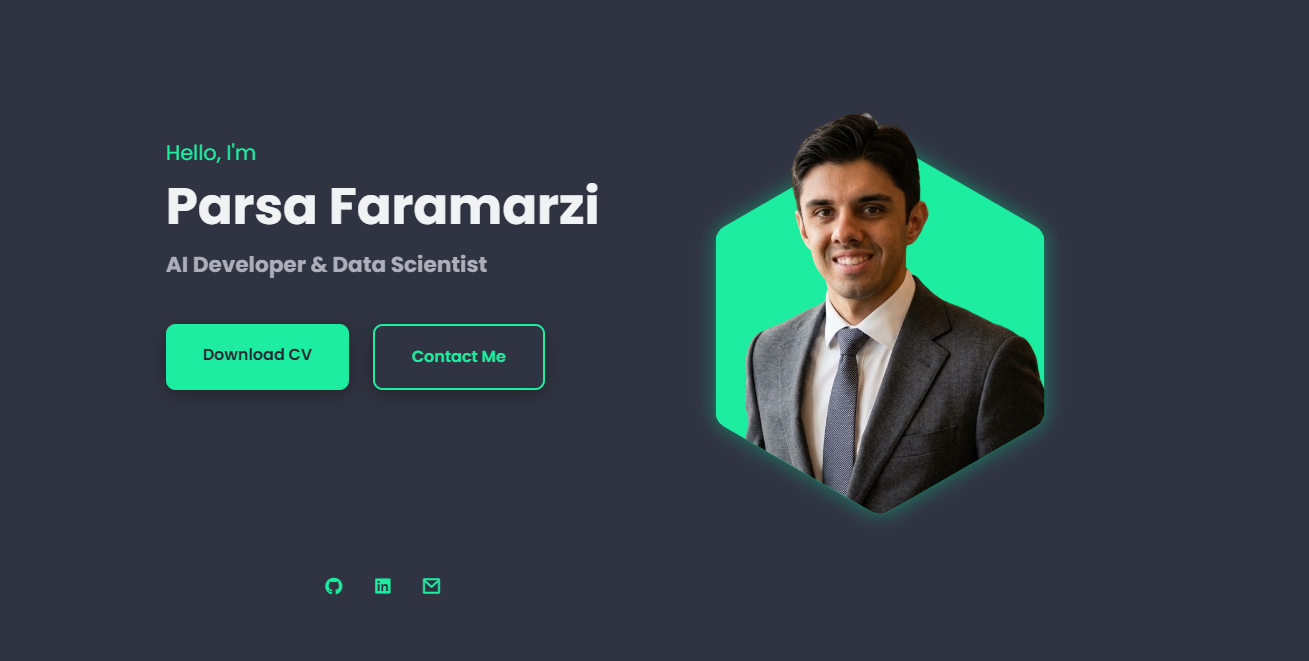
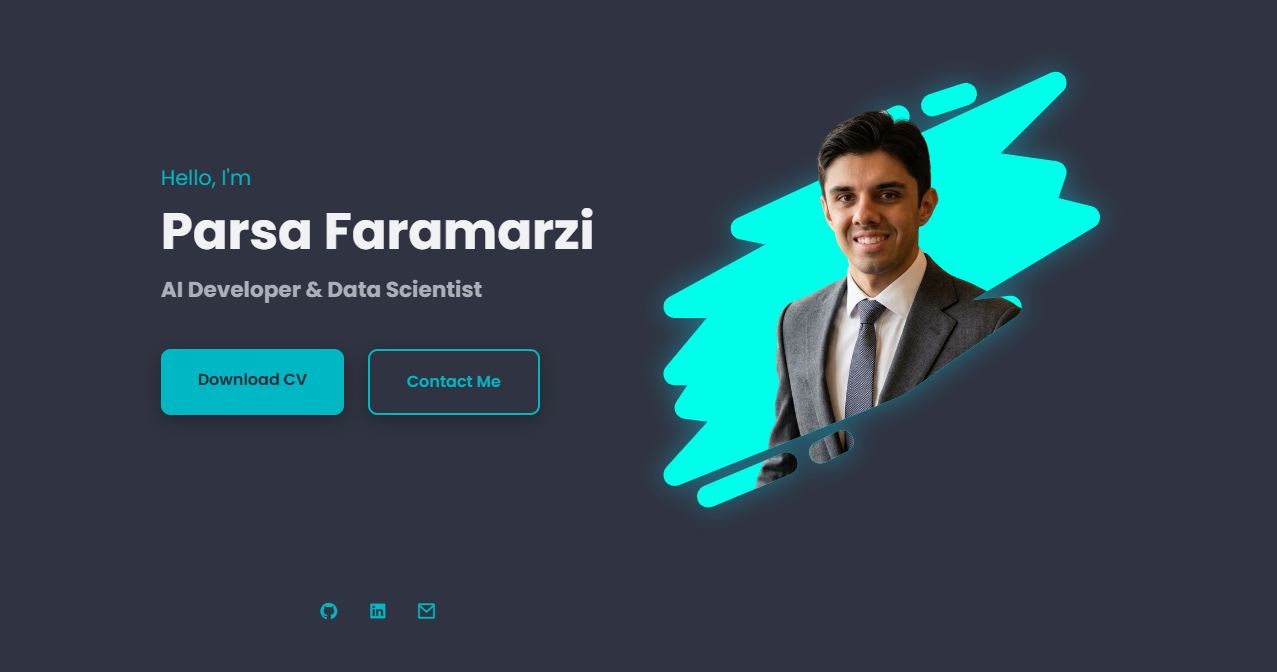
version 1.7

diff --git a/index.html b/index.html
@@ -85,37 +85,18 @@
 
           <div class="home__handle">
             <svg
-              xml:space="preserve"
-              style="max-height: 500px"
-              viewBox="51.2 89.60000000000001 405.76 364.79999999999995"
-              y="0px"
-              x="0px"
+              viewBox="1.756756756756757 2.6899999999999995 91.8918918918919 91.80000000000001"
               version="1.1"
-              xmlns:xlink="http://www.w3.org/1999/xlink"
               xmlns="http://www.w3.org/2000/svg"
-              width="405.76"
-              height="364.79999999999995"
+              style="max-height: 500px"
+              width="91.8918918918919"
+              height="91.80000000000001"
               class="home__svg"
             >
               <path
-                d="M437.9,320.31l-73.79-137.54c-4.36-8.12-12.81-13.18-22.03-13.18H169.92c-9.22,0-17.67,5.06-22.03,13.19L74.1,320.31  c-2.52,4.7-2.39,10.23,0.35,14.8c2.73,4.57,7.54,7.3,12.87,7.3h337.36c5.33,0,10.14-2.73,12.87-7.3  C440.29,330.54,440.42,325.01,437.9,320.31z"
+                fill-rule="evenodd"
+                d="m82.746 11.895-11.656 11.637 10.453 1.4922c0.60938 0.085937 1.1523 0.44141 1.4766 0.96875 0.32422 0.52344 0.39844 1.1641 0.20312 1.7539l-1.3711 4.1133 6.1523 1.5391c0.81641 0.20703 1.4297 0.88281 1.5547 1.7148 0.12109 0.83203-0.26562 1.6602-0.98828 2.0938l-22.789 13.672 6.875-0.85938c0.95312-0.12109 1.8594 0.42578 2.2031 1.3164 0.34375 0.89453 0.035156 1.9062-0.75 2.457l-20.832 14.582c-0.12891 0.09375-0.26953 0.16406-0.42188 0.22656l-41.668 16.668c-0.89844 0.35938-1.9297 0.046875-2.4844-0.74609-0.55078-0.79688-0.48047-1.8711 0.17188-2.5898l7.6914-8.4844-4.3281-0.54688c-0.71484-0.089844-1.332-0.54688-1.6328-1.2031s-0.23828-1.4219 0.15625-2.0195l2.0078-3.0117h-2.3555c-0.80859 0-1.543-0.46484-1.8867-1.1992s-0.23047-1.5938 0.28906-2.2188l7.5664-9.082h-5.9688c-0.95312 0-1.7812-0.64844-2.0195-1.5703-0.23438-0.92188 0.1875-1.8867 1.0234-2.3438l17.879-9.7539-4.7891-0.95703c-0.88672-0.17969-1.5547-0.90234-1.6602-1.7969-0.10938-0.89453 0.37109-1.7578 1.1914-2.1367l58.355-27.082c0.91797-0.42578 2.0078-0.13281 2.5859 0.69531 0.57812 0.82422 0.47656 1.9531-0.23438 2.668zm-65.277 77.379c-1.0625 0.44531-2.2812-0.054688-2.7266-1.1172-0.44531-1.0625 0.054687-2.2852 1.1172-2.7305l14.582-6.0977c1.0625-0.44531 2.2852 0.054687 2.7305 1.1172 0.44141 1.0625-0.054687 2.2852-1.1172 2.7266zm23.266-14.051c1.0273-0.51562 2.2812-0.097656 2.793 0.92969 0.51562 1.0273 0.097656 2.2812-0.92969 2.793l-4.1641 2.0859c-1.0273 0.51562-2.2852 0.097656-2.7969-0.92969-0.51562-1.0273-0.09375-2.2812 0.93359-2.793zm23.191-64.695c1.0898-0.36328 2.2695 0.22656 2.6367 1.3164 0.35938 1.0938-0.22656 2.2695-1.3203 2.6367l-6.25 2.0859c-1.0898 0.36328-2.2695-0.22656-2.6367-1.3203-0.35938-1.0898 0.22656-2.2695 1.3203-2.6367zm-12.773 4.2812c1.0273-0.51562 2.2812-0.097656 2.793 0.92969 0.51563 1.0273 0.097657 2.2812-0.92969 2.793l-4.1641 2.0859c-1.0273 0.51562-2.2852 0.097656-2.7969-0.92969-0.51563-1.0273-0.097657-2.2852 0.93359-2.7969z"
               />
-              <text
-                font-family="'Helvetica Neue', Helvetica, Arial-Unicode, Arial, Sans-serif"
-                font-weight="bold"
-                font-size="5px"
-                fill="#000000"
-                y="527"
-                x="0"
-              ></text>
-              <text
-                font-family="'Helvetica Neue', Helvetica, Arial-Unicode, Arial, Sans-serif"
-                font-weight="bold"
-                font-size="5px"
-                fill="#000000"
-                y="532"
-                x="0"
-              ></text>
             </svg>
             <img
               src="./assets/img/portrait02.png"

diff --git a/assets/css/style.css b/assets/css/style.css
@@ -2,10 +2,9 @@
 
 /* ==================== ROOT VARIABLES & THEME ==================== */
 :root {
-  --hue: 158;
-  --first-color: hsl(var(--hue), 85%, 52%);
-  --first-color-alt: hsl(var(--hue), 85%, 42%);
-  --first-color-light: hsl(var(--hue), 85%, 62%);
+  --first-color: rgb(0, 183, 196);
+  --first-color-alt: rgb(0, 255, 234);
+  --first-color-light: rgb(0, 190, 204);
 
   --title-color: hsl(228, 8%, 95%);
   --text-color: hsl(228, 8%, 70%);
@@ -13,7 +12,7 @@
   --container-color: hsl(228, 15%, 22%);
   --container-color-light: hsl(228, 15%, 28%);
   --general-shadow: rgba(0, 0, 0, 0.3);
-  --active-shadow: rgba(0, 255, 170, 0.4);
+  --active-shadow: rgba(0, 225, 255, 0.384);
 
   --body-font: "Poppins", sans-serif;
 
@@ -278,8 +277,9 @@ img {
 
 .home__svg {
   position: absolute;
-  top: 50px;
-  left: 0;
+  top: 50%;
+  left: 50%;
+  transform: translate(-50%, -50%) scale(1.3);
   width: 100%;
   height: 100%;
   z-index: 1;
@@ -290,27 +290,29 @@ img {
 
 .home__img {
   position: absolute;
-  top: 50px;
-  left: 0;
+  top: 50%;
+  left: 50%;
+  transform: translate(-50%, -50%);
   width: 100%;
   height: 100%;
   object-fit: cover;
   z-index: 2;
   transition: transform 0.3s ease;
+  transform: translate(-50%, -50%) scale(1.3);
   -webkit-mask:
     linear-gradient(#000 45%, transparent 45%) top/100% 100% no-repeat,
-    url("../img/noun-trapezoid-5786599-cropped.svg") bottom/100% 100% no-repeat;
+    url("../img/home_svg.svg") center/100% 100% no-repeat;
   mask:
     linear-gradient(#000 45%, transparent 45%) top/100% 100% no-repeat,
-    url("../img/noun-trapezoid-5786599-cropped.svg") bottom/100% 100% no-repeat;
+    url("../img/home_svg.svg") center/100% 100% no-repeat;
 }
 
 .home__handle:hover .home__img {
-  transform: scale(1.05);
+  transform: translate(-50%, -50%) scale(1.5);
 }
 
 .home__handle:hover .home__svg {
-  transform: scale(1.05);
+  transform: translate(-50%, -50%) scale(1.5);
   filter: drop-shadow(0 0 60px var(--active-shadow));
 }
 
